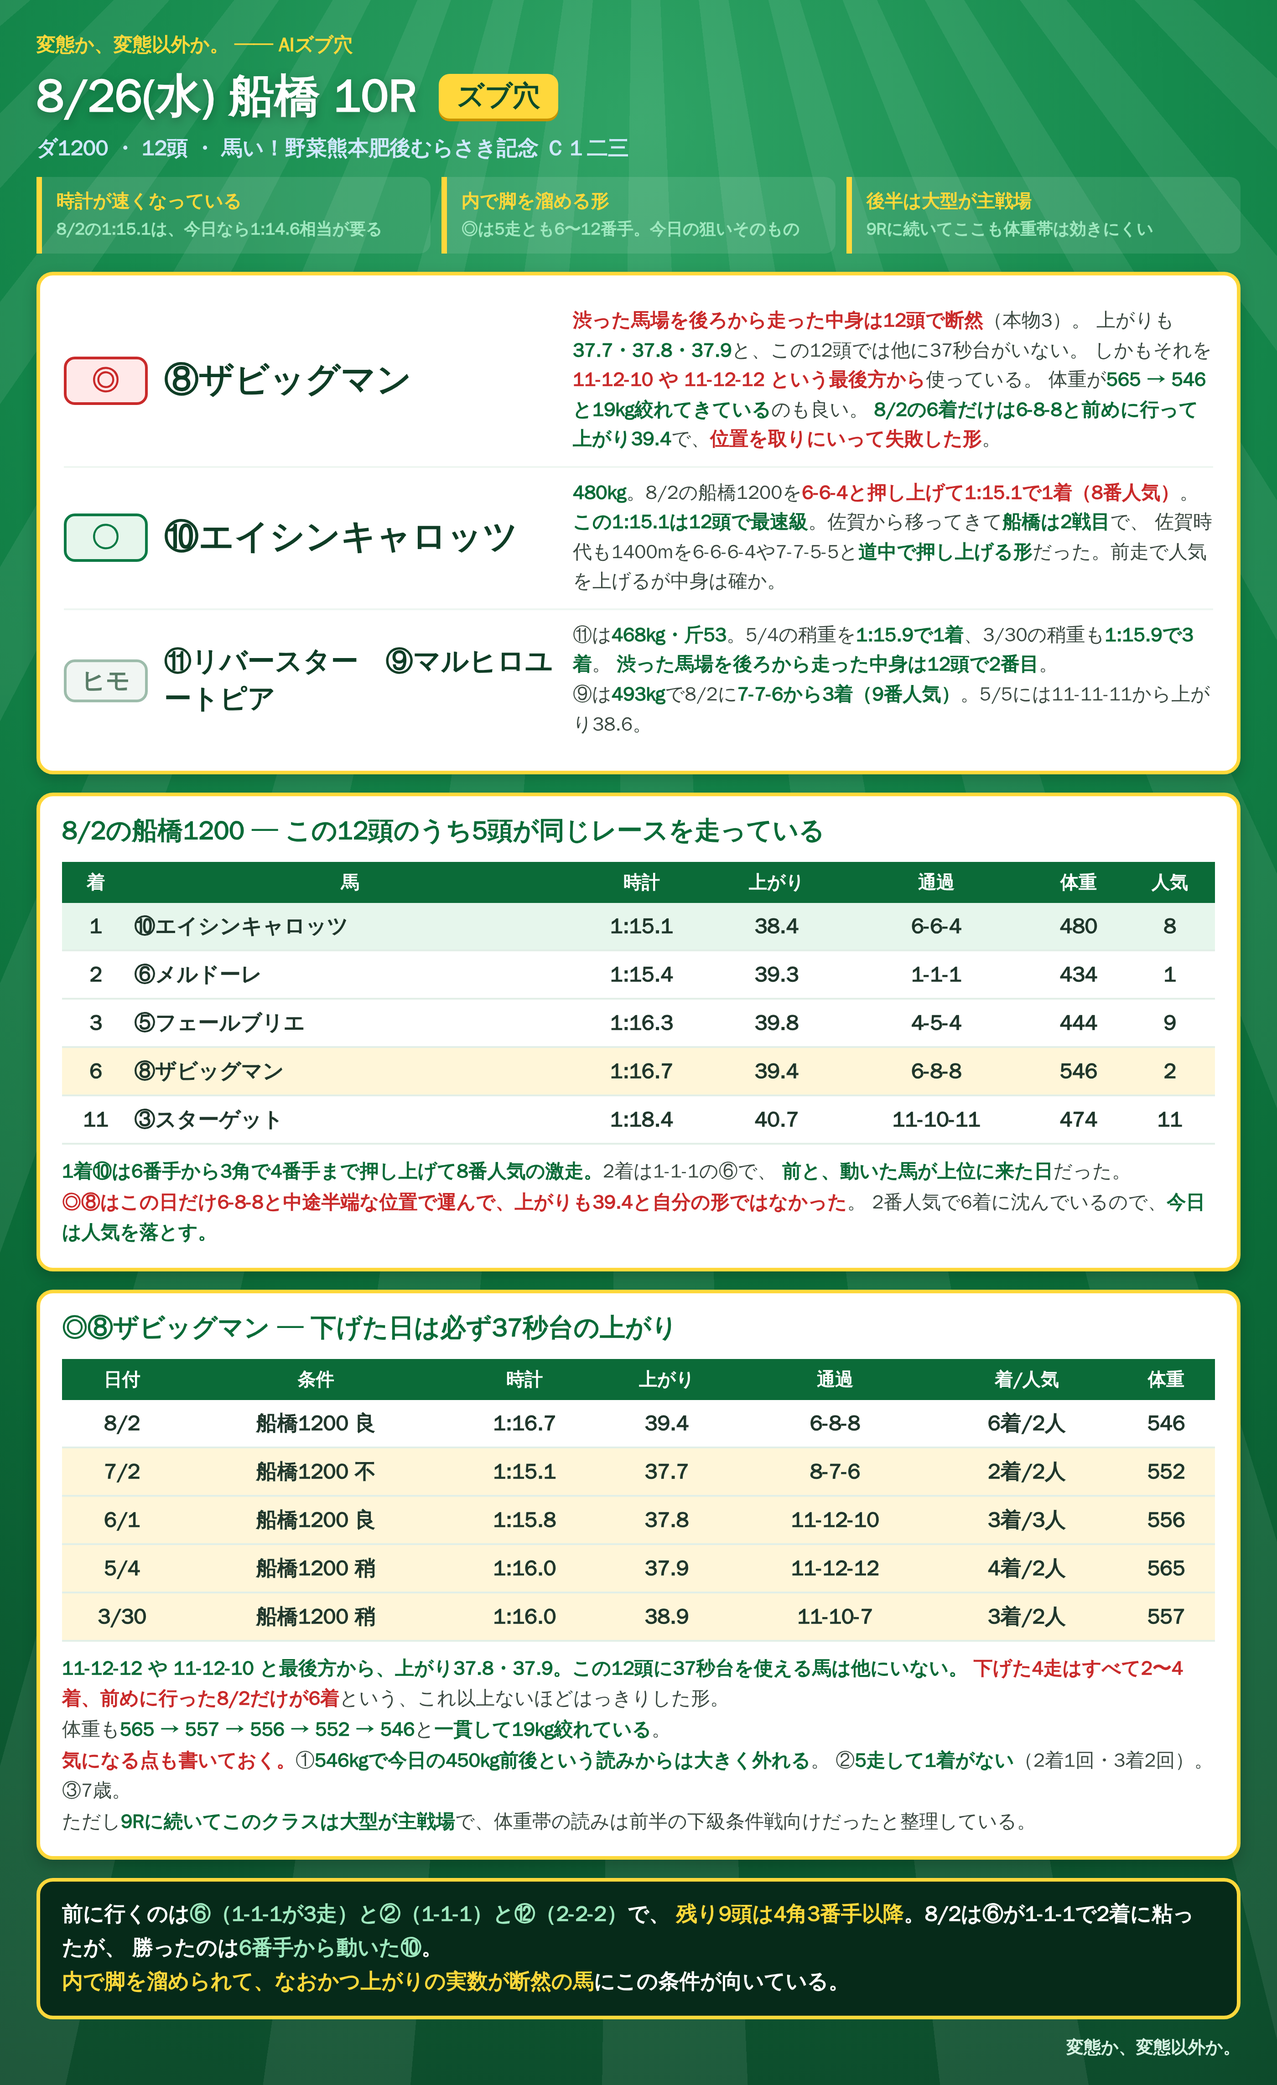
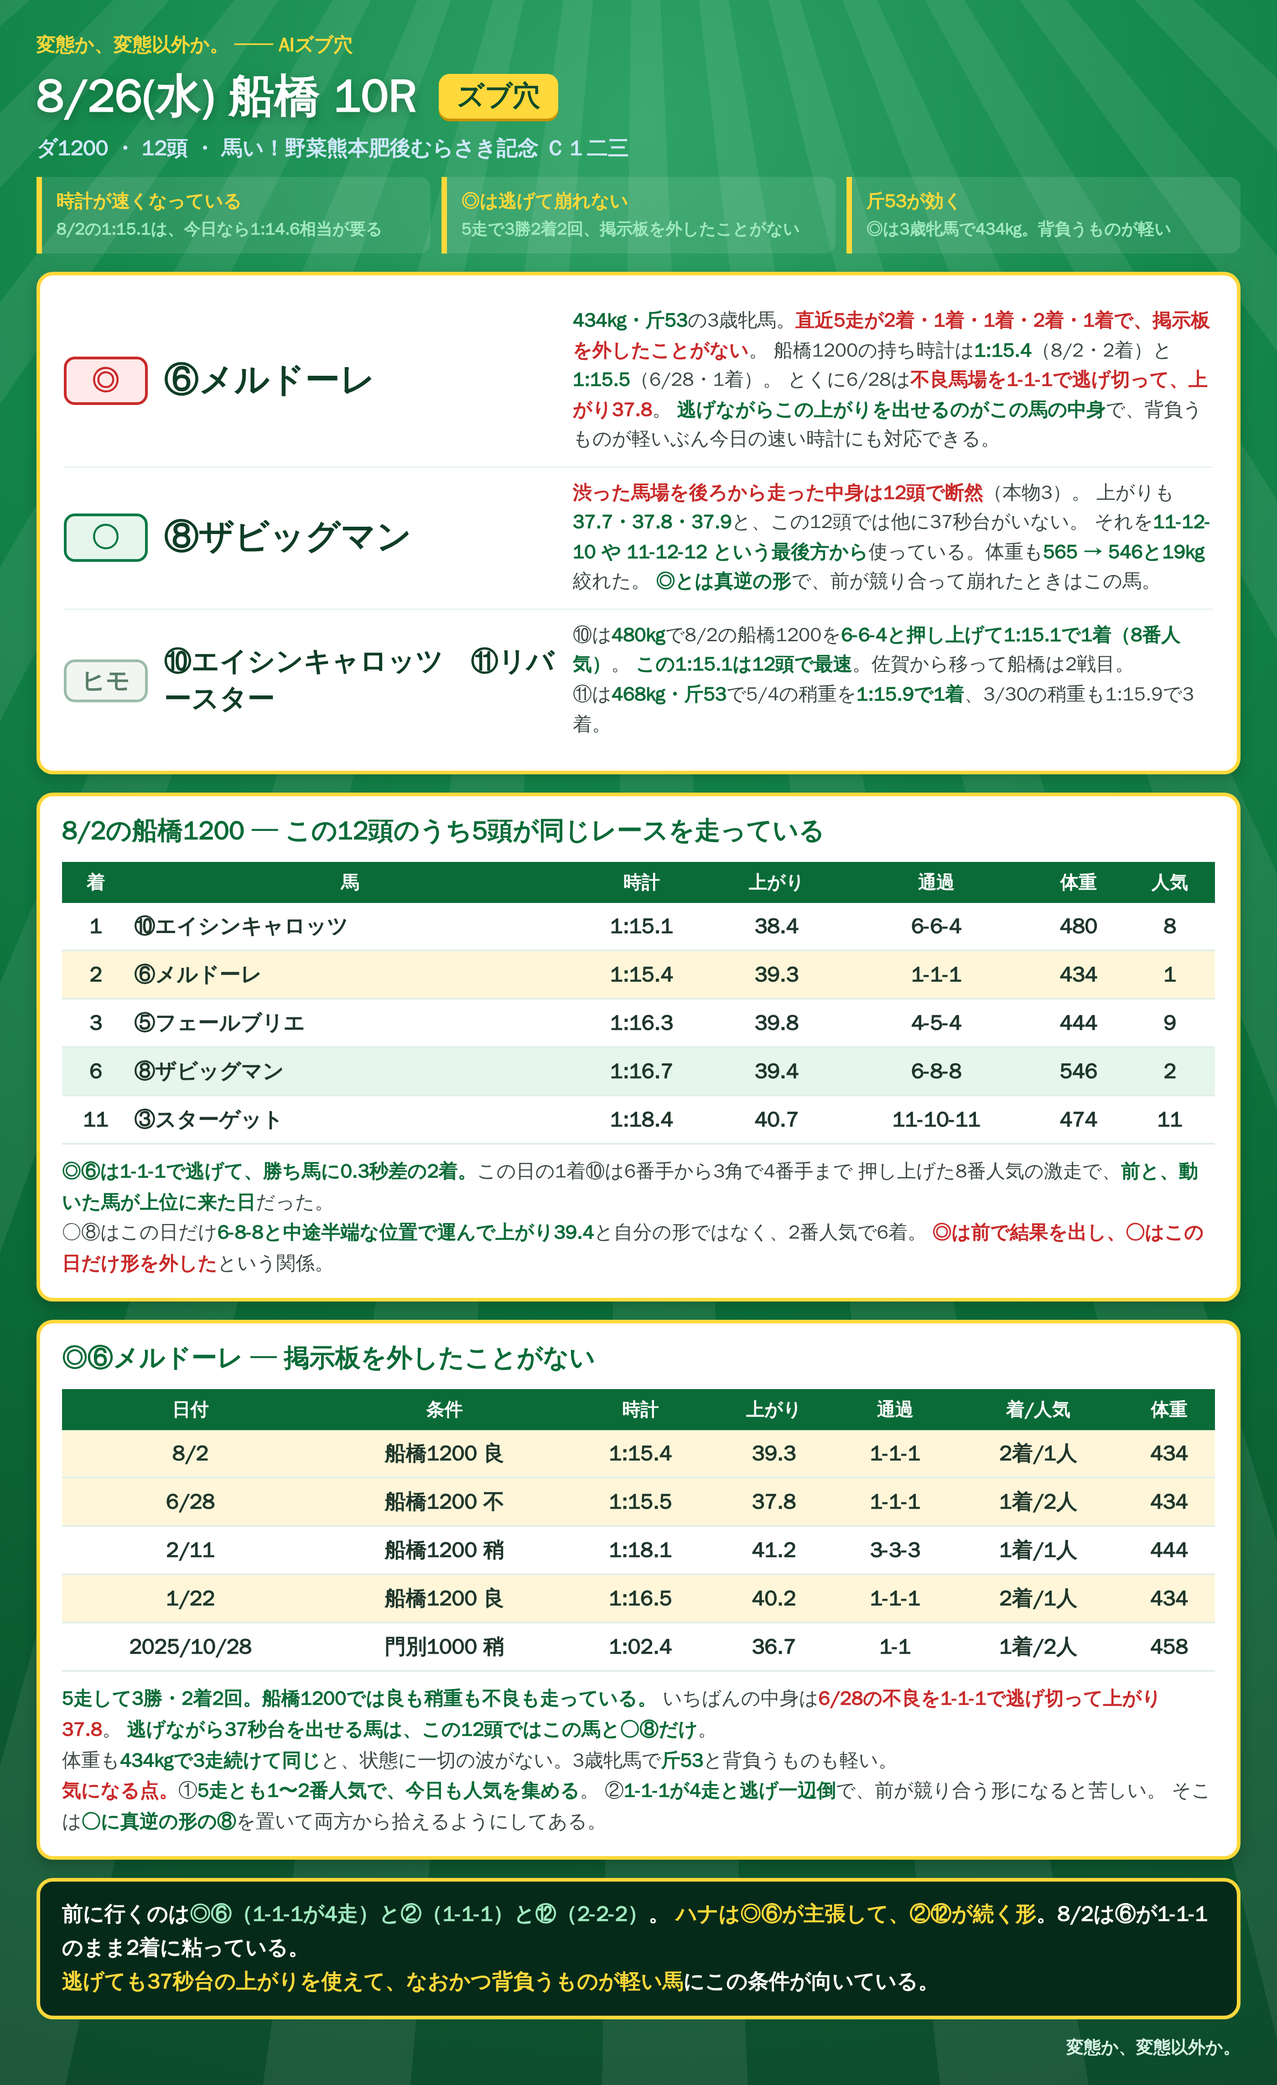
8/26 船橋 10R ◎⑥メルドーレに差し替え
◎⑥メルドーレ ○⑧ザビッグマン に入れ替え（ヒモは⑩⑪）。
⑥は直近5走が2着/1着/1着/2着/1着で掲示板を外したことがなく、6/28の不良を
1-1-1で逃げ切って上がり37.8。逃げながら37秒台を使えるのは12頭で⑥と⑧だけ。
434kgで3走続けて同体重、3歳牝馬で斤53。

逃げ一辺倒という弱点は、真逆の形の⑧を○に置くことで両面から拾えるようにした。

Claude-Session: https://claude.ai/code/session_01RoHscZkr96FNaxQWvUqgEw

diff --git a/notes/live/2026-08-26/funabashi_10R.html b/notes/live/2026-08-26/funabashi_10R.html
@@ -45,30 +45,30 @@
 
 <div class="reads">
  <div class="rd"><b>時計が速くなっている</b><br><span class="x">8/2の1:15.1は、今日なら1:14.6相当が要る</span></div>
- <div class="rd"><b>内で脚を溜める形</b><br><span class="x">◎は5走とも6〜12番手。今日の狙いそのもの</span></div>
- <div class="rd"><b>後半は大型が主戦場</b><br><span class="x">9Rに続いてここも体重帯は効きにくい</span></div>
+ <div class="rd"><b>◎は逃げて崩れない</b><br><span class="x">5走で3勝2着2回、掲示板を外したことがない</span></div>
+ <div class="rd"><b>斤53が効く</b><br><span class="x">◎は3歳牝馬で434kg。背負うものが軽い</span></div>
 </div>
 
 <div class="picks">
  <div class="pr">
-  <div class="mk">◎</div><div class="nm">⑧ザビッグマン</div>
+  <div class="mk">◎</div><div class="nm">⑥メルドーレ</div>
+  <div class="why"><b>434kg・斤53</b>の3歳牝馬。<b class="r">直近5走が2着・1着・1着・2着・1着で、掲示板を外したことがない</b>。
+  船橋1200の持ち時計は<b>1:15.4</b>（8/2・2着）と<b>1:15.5</b>（6/28・1着）。
+  とくに6/28は<b class="r">不良馬場を1-1-1で逃げ切って、上がり37.8</b>。
+  <b>逃げながらこの上がりを出せるのがこの馬の中身</b>で、背負うものが軽いぶん今日の速い時計にも対応できる。</div>
+ </div>
+ <div class="pr">
+  <div class="mk mk2">○</div><div class="nm">⑧ザビッグマン</div>
   <div class="why"><b class="r">渋った馬場を後ろから走った中身は12頭で断然</b>（本物3）。
   上がりも<b>37.7・37.8・37.9</b>と、この12頭では他に37秒台がいない。
-  しかもそれを<b class="r">11-12-10 や 11-12-12 という最後方から</b>使っている。
-  体重が<b>565 → 546と19kg絞れてきている</b>のも良い。
-  <b>8/2の6着だけは6-8-8と前めに行って上がり39.4</b>で、<b class="r">位置を取りにいって失敗した形</b>。</div>
+  それを<b>11-12-10 や 11-12-12 という最後方から</b>使っている。体重も<b>565 → 546と19kg</b>絞れた。
+  <b>◎とは真逆の形</b>で、前が競り合って崩れたときはこの馬。</div>
  </div>
  <div class="pr">
-  <div class="mk mk2">○</div><div class="nm">⑩エイシンキャロッツ</div>
-  <div class="why"><b>480kg</b>。8/2の船橋1200を<b class="r">6-6-4と押し上げて1:15.1で1着（8番人気）</b>。
-  <b>この1:15.1は12頭で最速級</b>。佐賀から移ってきて<b>船橋は2戦目</b>で、
-  佐賀時代も1400mを6-6-6-4や7-7-5-5と<b>道中で押し上げる形</b>だった。前走で人気を上げるが中身は確か。</div>
- </div>
- <div class="pr">
-  <div class="mk mk3">ヒモ</div><div class="nm s">⑪リバースター　⑨マルヒロユートピア</div>
-  <div class="why">⑪は<b>468kg・斤53</b>。5/4の稍重を<b>1:15.9で1着</b>、3/30の稍重も<b>1:15.9で3着</b>。
-  <b>渋った馬場を後ろから走った中身は12頭で2番目</b>。<br>
-  ⑨は<b>493kg</b>で8/2に<b>7-7-6から3着（9番人気）</b>。5/5には11-11-11から上がり38.6。</div>
+  <div class="mk mk3">ヒモ</div><div class="nm s">⑩エイシンキャロッツ　⑪リバースター</div>
+  <div class="why">⑩は<b>480kg</b>で8/2の船橋1200を<b>6-6-4と押し上げて1:15.1で1着（8番人気）</b>。
+  <b>この1:15.1は12頭で最速</b>。佐賀から移って船橋は2戦目。<br>
+  ⑪は<b>468kg・斤53</b>で5/4の稍重を<b>1:15.9で1着</b>、3/30の稍重も1:15.9で3着。</div>
  </div>
 </div>
 
@@ -76,39 +76,39 @@
  <div class="sh">8/2の船橋1200 ─ この12頭のうち5頭が同じレースを走っている</div>
  <table>
   <tr><th>着</th><th>馬</th><th>時計</th><th>上がり</th><th>通過</th><th>体重</th><th>人気</th></tr>
-  <tr class="o"><td>1</td><td class="l">⑩エイシンキャロッツ</td><td><b>1:15.1</b></td><td>38.4</td><td><b>6-6-4</b></td><td>480</td><td><b>8</b></td></tr>
-  <tr><td>2</td><td class="l">⑥メルドーレ</td><td>1:15.4</td><td>39.3</td><td>1-1-1</td><td>434</td><td><b>1</b></td></tr>
+  <tr><td>1</td><td class="l">⑩エイシンキャロッツ</td><td><b>1:15.1</b></td><td>38.4</td><td><b>6-6-4</b></td><td>480</td><td><b>8</b></td></tr>
+  <tr class="hi"><td>2</td><td class="l">⑥メルドーレ</td><td><b>1:15.4</b></td><td>39.3</td><td><b>1-1-1</b></td><td>434</td><td>1</td></tr>
   <tr><td>3</td><td class="l">⑤フェールブリエ</td><td>1:16.3</td><td>39.8</td><td>4-5-4</td><td>444</td><td>9</td></tr>
-  <tr class="hi"><td>6</td><td class="l">⑧ザビッグマン</td><td>1:16.7</td><td>39.4</td><td><b>6-8-8</b></td><td>546</td><td>2</td></tr>
+  <tr class="o"><td>6</td><td class="l">⑧ザビッグマン</td><td>1:16.7</td><td>39.4</td><td>6-8-8</td><td>546</td><td>2</td></tr>
   <tr><td>11</td><td class="l">③スターゲット</td><td>1:18.4</td><td>40.7</td><td>11-10-11</td><td>474</td><td>11</td></tr>
  </table>
- <div class="note"><b>1着⑩は6番手から3角で4番手まで押し上げて8番人気の激走。</b>2着は1-1-1の⑥で、
- <b>前と、動いた馬が上位に来た日</b>だった。<br>
- <b class="r">◎⑧はこの日だけ6-8-8と中途半端な位置で運んで、上がりも39.4と自分の形ではなかった</b>。
- 2番人気で6着に沈んでいるので、<b>今日は人気を落とす。</b></div>
+ <div class="note"><b>◎⑥は1-1-1で逃げて、勝ち馬に0.3秒差の2着。</b>この日の1着⑩は6番手から3角で4番手まで
+ 押し上げた8番人気の激走で、<b>前と、動いた馬が上位に来た日</b>だった。<br>
+ ○⑧はこの日だけ<b>6-8-8と中途半端な位置で運んで上がり39.4</b>と自分の形ではなく、2番人気で6着。
+ <b class="r">◎は前で結果を出し、○はこの日だけ形を外した</b>という関係。</div>
 </div>
 
 <div class="sec">
- <div class="sh">◎⑧ザビッグマン ─ 下げた日は必ず37秒台の上がり</div>
+ <div class="sh">◎⑥メルドーレ ─ 掲示板を外したことがない</div>
  <table>
   <tr><th>日付</th><th>条件</th><th>時計</th><th>上がり</th><th>通過</th><th>着/人気</th><th>体重</th></tr>
-  <tr class="bad"><td>8/2</td><td>船橋1200 良</td><td>1:16.7</td><td>39.4</td><td>6-8-8</td><td>6着/2人</td><td><b>546</b></td></tr>
-  <tr class="hi"><td>7/2</td><td>船橋1200 <b>不</b></td><td><b>1:15.1</b></td><td><b>37.7</b></td><td><b>8-7-6</b></td><td><b>2着</b>/2人</td><td>552</td></tr>
-  <tr class="hi"><td>6/1</td><td>船橋1200 良</td><td>1:15.8</td><td><b>37.8</b></td><td><b>11-12-10</b></td><td><b>3着</b>/3人</td><td>556</td></tr>
-  <tr class="hi"><td>5/4</td><td>船橋1200 稍</td><td>1:16.0</td><td><b>37.9</b></td><td><b>11-12-12</b></td><td>4着/2人</td><td>565</td></tr>
-  <tr class="hi"><td>3/30</td><td>船橋1200 稍</td><td>1:16.0</td><td>38.9</td><td><b>11-10-7</b></td><td><b>3着</b>/2人</td><td>557</td></tr>
+  <tr class="hi"><td>8/2</td><td>船橋1200 良</td><td><b>1:15.4</b></td><td>39.3</td><td><b>1-1-1</b></td><td><b>2着</b>/1人</td><td>434</td></tr>
+  <tr class="hi"><td>6/28</td><td>船橋1200 <b>不</b></td><td><b>1:15.5</b></td><td><b>37.8</b></td><td><b>1-1-1</b></td><td><b>1着</b>/2人</td><td>434</td></tr>
+  <tr><td>2/11</td><td>船橋1200 稍</td><td>1:18.1</td><td>41.2</td><td>3-3-3</td><td><b>1着</b>/1人</td><td>444</td></tr>
+  <tr class="hi"><td>1/22</td><td>船橋1200 良</td><td>1:16.5</td><td>40.2</td><td><b>1-1-1</b></td><td><b>2着</b>/1人</td><td>434</td></tr>
+  <tr><td>2025/10/28</td><td>門別1000 稍</td><td>1:02.4</td><td><b>36.7</b></td><td><b>1-1</b></td><td><b>1着</b>/2人</td><td>458</td></tr>
  </table>
- <div class="note"><b>11-12-12 や 11-12-10 と最後方から、上がり37.8・37.9。この12頭に37秒台を使える馬は他にいない。</b>
- <b class="r">下げた4走はすべて2〜4着、前めに行った8/2だけが6着</b>という、これ以上ないほどはっきりした形。<br>
- 体重も<b>565 → 557 → 556 → 552 → 546</b>と<b>一貫して19kg絞れている</b>。<br>
- <b class="r">気になる点も書いておく。</b>①<b>546kgで今日の450kg前後という読みからは大きく外れる</b>。
- ②<b>5走して1着がない</b>（2着1回・3着2回）。③7歳。<br>
- ただし<b>9Rに続いてこのクラスは大型が主戦場</b>で、体重帯の読みは前半の下級条件戦向けだったと整理している。</div>
+ <div class="note"><b>5走して3勝・2着2回。船橋1200では良も稍重も不良も走っている。</b>
+ いちばんの中身は<b class="r">6/28の不良を1-1-1で逃げ切って上がり37.8</b>。
+ <b>逃げながら37秒台を出せる馬は、この12頭ではこの馬と○⑧だけ</b>。<br>
+ 体重も<b>434kgで3走続けて同じ</b>と、状態に一切の波がない。3歳牝馬で<b>斤53</b>と背負うものも軽い。<br>
+ <b class="r">気になる点。</b>①<b>5走とも1〜2番人気で、今日も人気を集める</b>。
+ ②<b>1-1-1が4走と逃げ一辺倒</b>で、前が競り合う形になると苦しい。
+ そこは<b>○に真逆の形の⑧</b>を置いて両方から拾えるようにしてある。</div>
 </div>
 
-<div class="foot">前に行くのは<span class="c">⑥（1-1-1が3走）と②（1-1-1）と⑫（2-2-2）</span>で、
-<span class="y">残り9頭は4角3番手以降</span>。8/2は⑥が1-1-1で2着に粘ったが、
-勝ったのは<span class="c">6番手から動いた⑩</span>。<br>
-<span class="y">内で脚を溜められて、なおかつ上がりの実数が断然の馬</span>にこの条件が向いている。</div>
+<div class="foot">前に行くのは<span class="c">◎⑥（1-1-1が4走）と②（1-1-1）と⑫（2-2-2）</span>。
+<span class="y">ハナは◎⑥が主張して、②⑫が続く形</span>。8/2は⑥が1-1-1のまま2着に粘っている。<br>
+<span class="y">逃げても37秒台の上がりを使えて、なおかつ背負うものが軽い馬</span>にこの条件が向いている。</div>
 <div class="sig">変態か、変態以外か。</div>
 </div></div></body></html>

diff --git a/notes/live/2026-08-26/README.md b/notes/live/2026-08-26/README.md
@@ -570,60 +570,62 @@ JRA東京1400で上がり35.8も使っている。ただし**1600mは未経験**
 
 画像: `funabashi_10R.png`
 
-| 印 | 馬 | 体重 | 枠 |
-|---|---|---|---|
-| ◎ | ⑧ザビッグマン | 546 | 8 |
-| ○ | ⑩エイシンキャロッツ | 480 | 10 |
-| ヒモ | ⑪リバースター／⑨マルヒロユートピア | 468／493 | 11／9 |
+| 印 | 馬 | 体重 | 枠 | 斤量 |
+|---|---|---|---|---|
+| ◎ | ⑥メルドーレ | 434 | 6 | **53** |
+| ○ | ⑧ザビッグマン | 546 | 8 | 56 |
+| ヒモ | ⑩エイシンキャロッツ／⑪リバースター | 480／468 | 10／11 | 56／53 |
 
 ### 8/2の船橋1200（12頭中5頭が同じレース）
 
 | 着 | 馬 | 時計 | 上がり | 通過 | 体重 | 人気 |
 |---|---|---|---|---|---|---|
-| 1 | **⑩エイシンキャロッツ** | **1:15.1** | 38.4 | **6-6-4** | 480 | **8** |
-| 2 | ⑥メルドーレ | 1:15.4 | 39.3 | 1-1-1 | 434 | **1** |
+| 1 | ⑩エイシンキャロッツ | **1:15.1** | 38.4 | **6-6-4** | 480 | **8** |
+| 2 | **⑥メルドーレ** | **1:15.4** | 39.3 | **1-1-1** | 434 | 1 |
 | 3 | ⑤フェールブリエ | 1:16.3 | 39.8 | 4-5-4 | 444 | 9 |
-| 6 | **⑧ザビッグマン** | 1:16.7 | 39.4 | **6-8-8** | 546 | 2 |
+| 6 | **⑧ザビッグマン** | 1:16.7 | 39.4 | 6-8-8 | 546 | 2 |
 | 11 | ③スターゲット | 1:18.4 | 40.7 | 11-10-11 | 474 | 11 |
 
-**1着⑩は6番手から3角で4番手まで押し上げて8番人気の激走。** 前と、動いた馬が上位に来た日だった。
-**◎⑧はこの日だけ6-8-8と中途半端な位置で運んで、上がりも39.4と自分の形ではなかった。**
-2番人気で6着に沈んでいるので、今日は人気を落とす。
+**◎⑥は1-1-1で逃げて、勝ち馬に0.3秒差の2着。** この日の1着⑩は6番手から3角で4番手まで押し上げた
+8番人気の激走で、前と、動いた馬が上位に来た日だった。
+○⑧はこの日だけ6-8-8と中途半端な位置で運んで上がり39.4と自分の形ではなく、2番人気で6着。
+**◎は前で結果を出し、○はこの日だけ形を外した**という関係。
 
-### ◎⑧ザビッグマン ─ 下げた日は必ず37秒台の上がり
+### ◎⑥メルドーレ ─ 掲示板を外したことがない
 
 | 日付 | 条件 | 時計 | 上がり | 通過 | 着/人気 | 体重 |
 |---|---|---|---|---|---|---|
-| 8/2 | 船橋1200 良 | 1:16.7 | 39.4 | 6-8-8 | 6着/2人 | **546** |
-| 7/2 | 船橋1200 **不** | **1:15.1** | **37.7** | **8-7-6** | **2着**/2人 | 552 |
-| 6/1 | 船橋1200 良 | 1:15.8 | **37.8** | **11-12-10** | **3着**/3人 | 556 |
-| 5/4 | 船橋1200 稍 | 1:16.0 | **37.9** | **11-12-12** | 4着/2人 | 565 |
-| 3/30 | 船橋1200 稍 | 1:16.0 | 38.9 | **11-10-7** | **3着**/2人 | 557 |
+| 8/2 | 船橋1200 良 | **1:15.4** | 39.3 | **1-1-1** | **2着**/1人 | 434 |
+| 6/28 | 船橋1200 **不** | **1:15.5** | **37.8** | **1-1-1** | **1着**/2人 | 434 |
+| 2/11 | 船橋1200 稍 | 1:18.1 | 41.2 | 3-3-3 | **1着**/1人 | 444 |
+| 1/22 | 船橋1200 良 | 1:16.5 | 40.2 | **1-1-1** | **2着**/1人 | 434 |
+| 2025/10/28 | 門別1000 稍 | 1:02.4 | **36.7** | **1-1** | **1着**/2人 | 458 |
 
-**11-12-12 や 11-12-10 と最後方から、上がり37.8・37.9。この12頭に37秒台を使える馬は他にいない。**
-**下げた4走はすべて2〜4着、前めに行った8/2だけが6着**という、これ以上ないほどはっきりした形。
-体重も565 → 557 → 556 → 552 → 546と**一貫して19kg絞れている**。
-渋った馬場を後ろから走った中身も12頭で断然（本物3）。
+**5走して3勝・2着2回。船橋1200では良も稍重も不良も走っている。**
+いちばんの中身は**6/28の不良を1-1-1で逃げ切って上がり37.8**。
+**逃げながら37秒台を出せる馬は、この12頭ではこの馬と○⑧だけ。**
+体重も434kgで3走続けて同じと、状態に一切の波がない。3歳牝馬で斤53と背負うものも軽い。
 
 **気になる点：**
-1. **546kgで今日の450kg前後という読みからは大きく外れる**
-2. **5走して1着がない**（2着1回・3着2回）
-3. 7歳
+1. **5走とも1〜2番人気で、今日も人気を集める**
+2. **1-1-1が4走と逃げ一辺倒**で、前が競り合う形になると苦しい
 
-ただし**9Rに続いてこのクラスは大型が主戦場**で、体重帯の読みは前半の下級条件戦向けだったと整理している。
+そこは**○に真逆の形の⑧**を置いて両方から拾えるようにしてある。
 
-### ○⑩エイシンキャロッツ
+### ○⑧ザビッグマン
 
-480kg。8/2の船橋1200を**6-6-4と押し上げて1:15.1で1着（8番人気）**。この1:15.1は12頭で最速級。
-佐賀から移ってきて**船橋は2戦目**で、佐賀時代も1400mを6-6-6-4や7-7-5-5と道中で押し上げる形だった。
+**渋った馬場を後ろから走った中身は12頭で断然**（本物3）。
+上がりも**37.7・37.8・37.9**と、この12頭では他に37秒台がいない。
+それを**11-12-10 や 11-12-12 という最後方から**使っている。体重も565 → 546と19kg絞れた。
+**◎とは真逆の形**で、前が競り合って崩れたときはこの馬。
 
 ### ヒモの2頭
 
+**⑩エイシンキャロッツ** … 480kg。8/2の船橋1200を**6-6-4と押し上げて1:15.1で1着（8番人気）**。
+この1:15.1は12頭で最速。佐賀から移って船橋は2戦目。
 **⑪リバースター** … 468kg・斤53。5/4の稍重を**1:15.9で1着**、3/30の稍重も1:15.9で3着。
-渋った馬場を後ろから走った中身は12頭で2番目。
-**⑨マルヒロユートピア** … 493kg。8/2に**7-7-6から3着（9番人気）**。5/5には11-11-11から上がり38.6。
 
 ### 展開
 
-前に行くのは⑥（1-1-1が3走）と②（1-1-1）と⑫（2-2-2）で、**残り9頭は4角3番手以降**。
-8/2は⑥が1-1-1で2着に粘ったが、勝ったのは6番手から動いた⑩。
+前に行くのは◎⑥（1-1-1が4走）と②（1-1-1）と⑫（2-2-2）。
+**ハナは◎⑥が主張して、②⑫が続く形。** 8/2は⑥が1-1-1のまま2着に粘っている。
